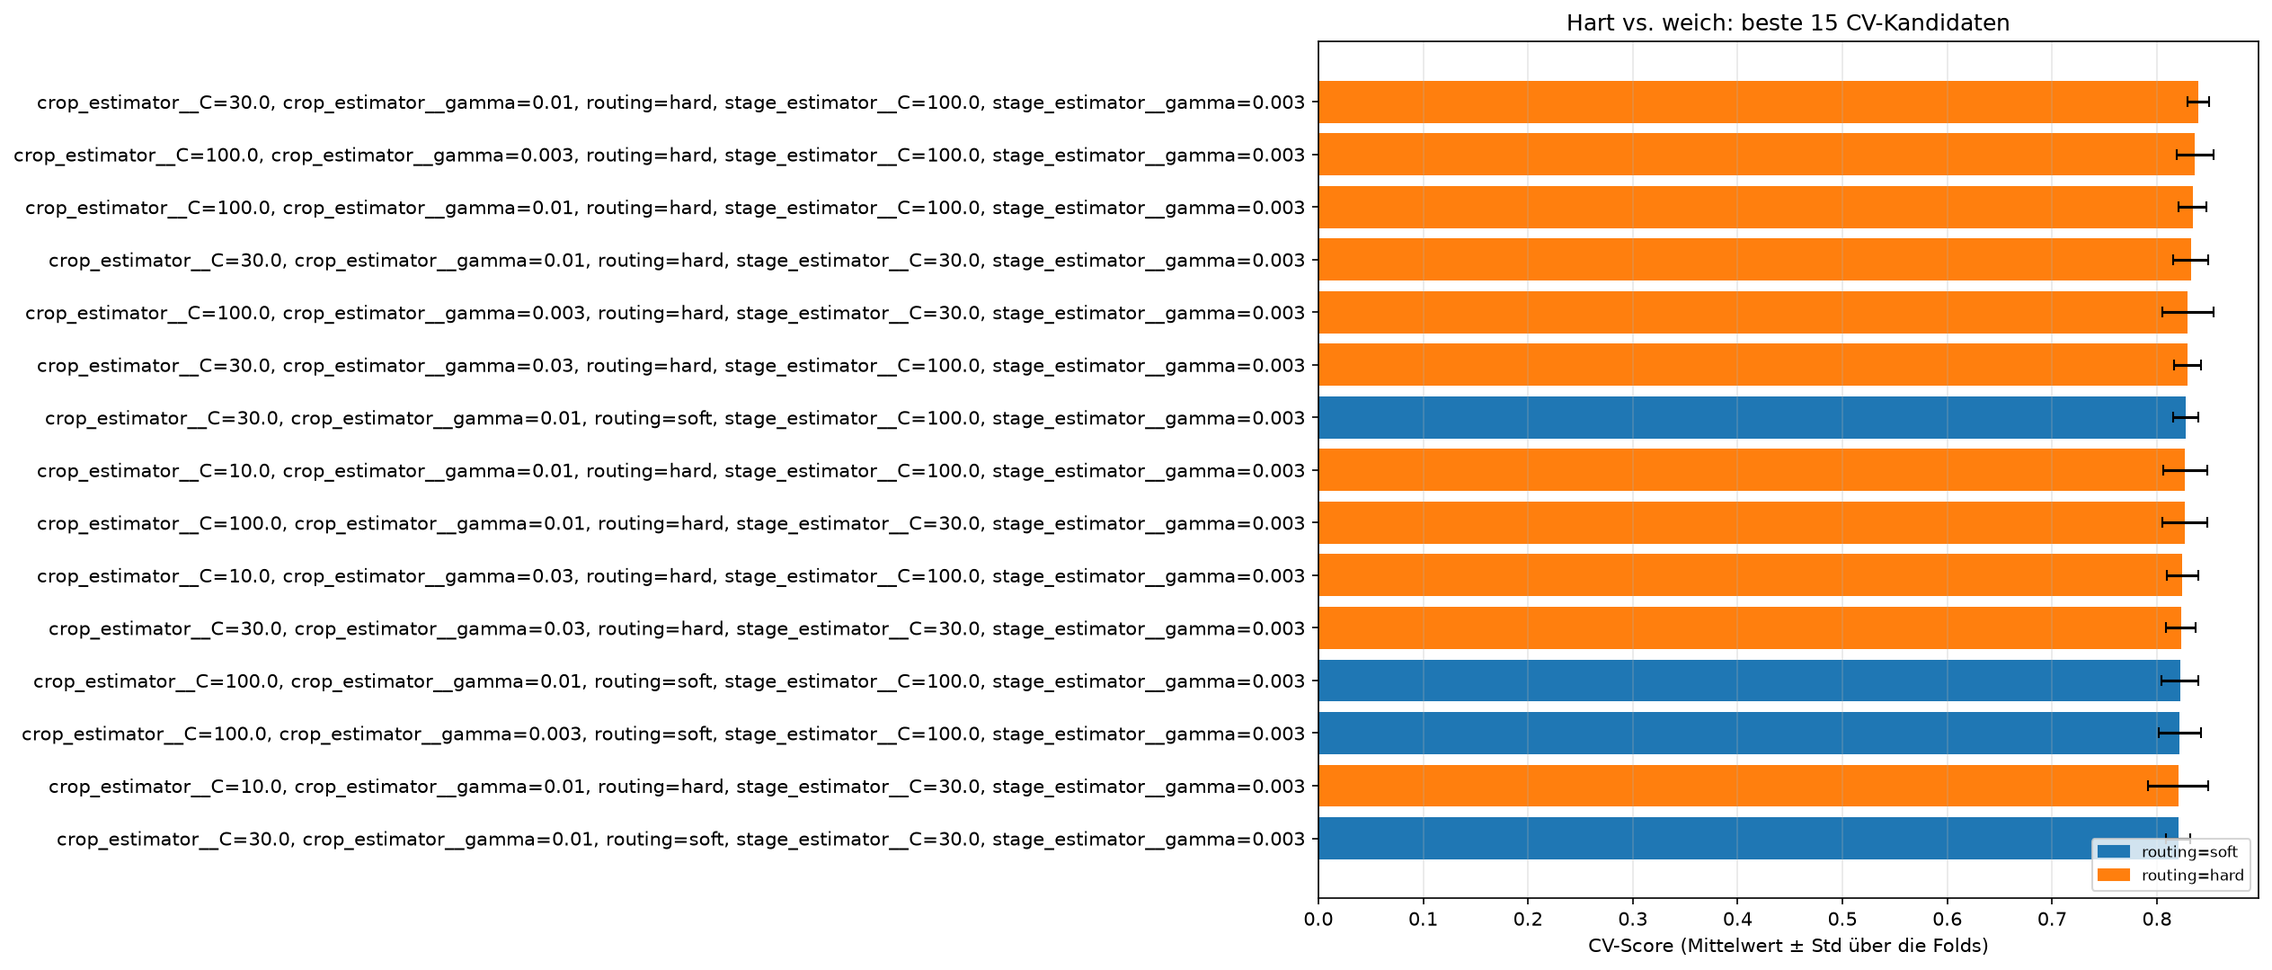
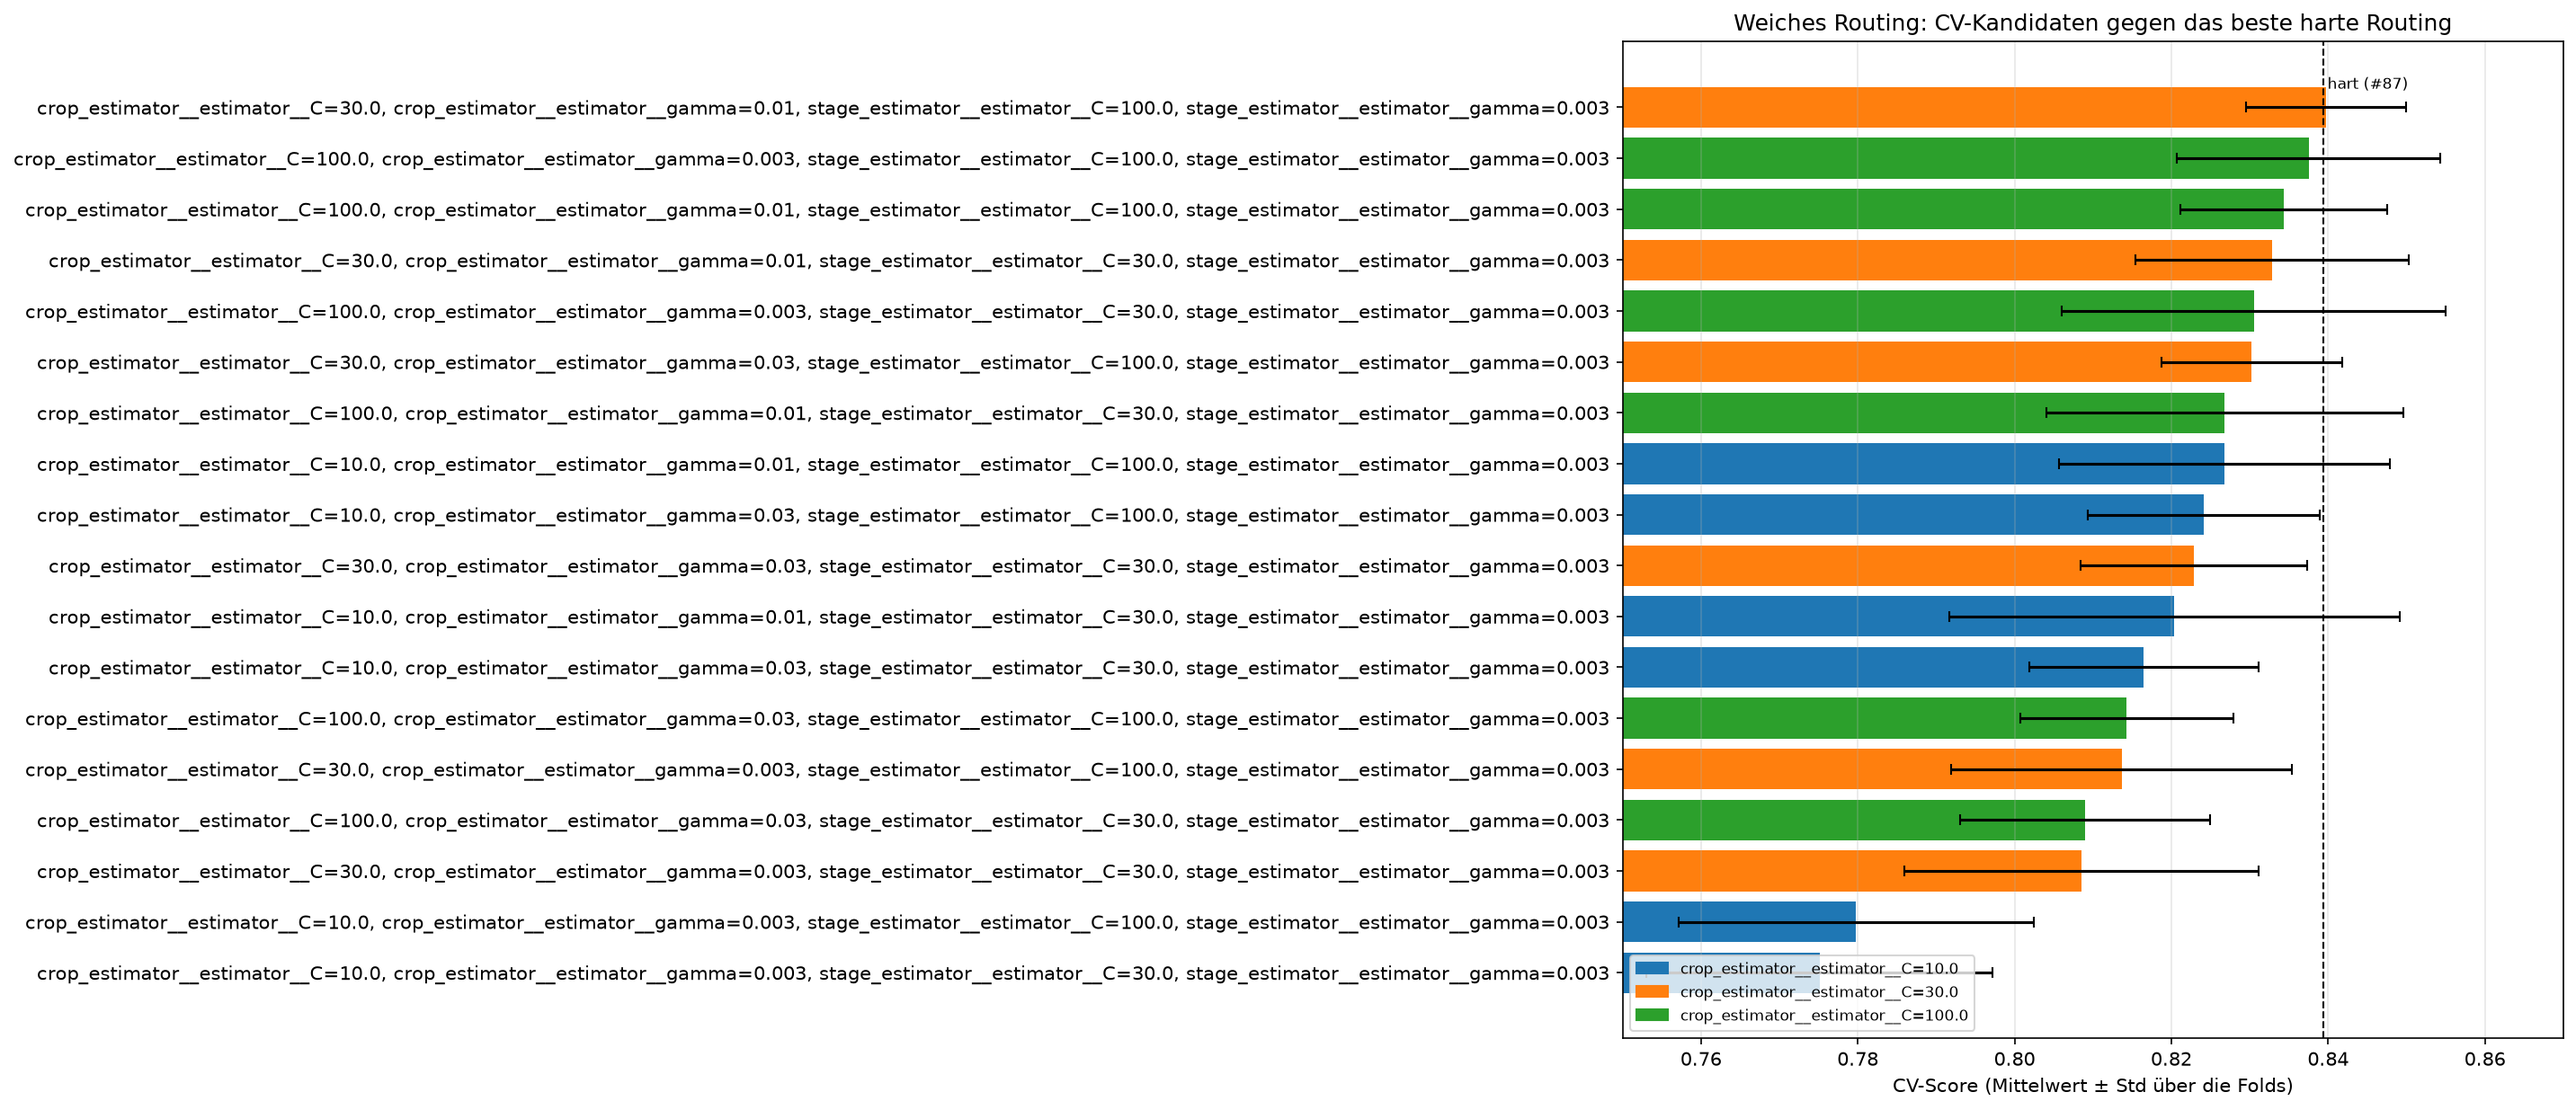
exp: calibrate soft routing and diagnose why it barely changes crops

diff --git a/src/awp2/models/hierarchical.py b/src/awp2/models/hierarchical.py
@@ -3,6 +3,7 @@
 import numpy as np
 import pandas as pd
 from sklearn.base import BaseEstimator, ClassifierMixin, clone
+from sklearn.calibration import CalibratedClassifierCV
 from sklearn.ensemble import ExtraTreesClassifier
 from sklearn.pipeline import Pipeline
 from sklearn.svm import SVC
@@ -82,6 +83,10 @@ class HierarchicalClassifier(ClassifierMixin, BaseEstimator):
         """
         if self.routing not in (HARD_ROUTING, SOFT_ROUTING):
             raise ValueError(f"Unknown routing {self.routing!r}.")
+        if self.routing == SOFT_ROUTING and not all(
+            hasattr(model, "predict_proba") for model in (self.crop_estimator, self.stage_estimator)
+        ):
+            raise ValueError("Soft routing needs predict_proba, e.g. CalibratedClassifierCV.")
         if list(y.columns) != list(TARGET_COLS):
             raise ValueError(f"Expected target columns {list(TARGET_COLS)}, got {list(y.columns)}.")
         crops = y[CROP_COL].to_numpy()
@@ -96,11 +101,6 @@ class HierarchicalClassifier(ClassifierMixin, BaseEstimator):
             self.stage_estimators_[crop] = clone(self.stage_estimator).fit(
                 X[is_crop], y.loc[is_crop, STAGE_COL], **_weight_params(crop_weights)
             )
-        if self.routing == SOFT_ROUTING and not all(
-            hasattr(model, "predict_proba")
-            for model in (self.crop_estimator_, *self.stage_estimators_.values())
-        ):
-            raise ValueError("Soft routing needs predict_proba, e.g. SVC(probability=True).")
         self.classes_ = np.unique(combined_label(y).to_numpy())
         return self
 
@@ -200,9 +200,10 @@ def make_hierarchical_svm(routing: Routing = HARD_ROUTING) -> HierarchicalClassi
     """Create the hierarchy with an RBF-SVM on both levels.
 
     Args:
-        routing: ``"soft"`` switches on probability estimates of the SVMs (Platt scaling with
-            an internal cross-validation, slower to fit); their ``predict`` stays unchanged, so
-            ``routing`` can then be tuned between ``"hard"`` and ``"soft"`` on the same model.
+        routing: ``"soft"`` wraps each SVM in a sigmoid ``CalibratedClassifierCV`` for
+            probabilities (internal cross-validation, slower to fit); tune its SVM as
+            ``crop_estimator__estimator__C`` etc. The calibrated models also *predict* by the
+            highest probability, so compare soft against a separately tuned hard hierarchy.
 
     Returns:
         Unfitted classifier with balanced class weights, so keep ``balance_samples=False``.
@@ -233,10 +234,11 @@ def make_hierarchical_extra_trees_svm() -> HierarchicalClassifier:
     return HierarchicalClassifier(_extra_trees(), SVC(class_weight="balanced"))
 
 
-def _svm(routing: Routing) -> SVC:
+def _svm(routing: Routing) -> SVC | CalibratedClassifierCV:
+    svm = SVC(class_weight="balanced")
     if routing == SOFT_ROUTING:
-        return SVC(class_weight="balanced", probability=True, random_state=SEED)
-    return SVC(class_weight="balanced")
+        return CalibratedClassifierCV(svm, method="sigmoid", ensemble=False)
+    return svm
 
 
 def _extra_trees() -> ExtraTreesClassifier:

diff --git a/src/awp2/config.py b/src/awp2/config.py
@@ -64,7 +64,6 @@ CROPS: tuple[str, ...] = get_args(Crop)
 STAGES: tuple[str, ...] = get_args(Stage)
 Subset = Literal["train", "val"]
 TRAIN_SUBSET, VAL_SUBSET = get_args(Subset)
-# hard: the predicted crop picks the stage model; soft: best pair by P(crop) * P(stage | crop)
 Routing = Literal["hard", "soft"]
 HARD_ROUTING, SOFT_ROUTING = get_args(Routing)
 LABEL_SEP = "|"  # "_" occurs inside crop and stage names, so it cannot separate them

diff --git a/docs/modelle/ansaetze/hierarchisch.md b/docs/modelle/ansaetze/hierarchisch.md
@@ -52,7 +52,7 @@ Stadien je Kultur im Trainingsteil:
 | Die Oracle-Kultur trennt Kultur- und Stadiumfehler sauber | Kein Wissensaustausch zwischen gleichen Stadien verschiedener Kulturen (z. B. Mais/Late und Soja/Late) |
 
 Gegenmaßnahmen: weiches Routing über Wahrscheinlichkeiten gegen die Fehlerfortpflanzung (#88,
-in der CV abgelehnt) sowie Vorverarbeitung und gezieltes Tuning schwacher Kulturen (#89).
+ohne messbaren Effekt) sowie Vorverarbeitung und gezieltes Tuning schwacher Kulturen (#89).
 
 ## Klassifikatoren
 
@@ -106,24 +106,37 @@ derselben Vorverarbeitung und demselben Raster **nur per CV** neu getunt
 
 Notebook: `notebooks/08_jd_hierarchical_soft.ipynb` (#88). Statt der harten Kulturentscheidung
 gewinnt das gültige Paar mit dem höchsten P(Kultur) · P(Stadium | Kultur)
-(`HierarchicalClassifier(routing="soft")`, SVMs mit Platt-Wahrscheinlichkeiten).
+(`HierarchicalClassifier(routing="soft")`); die SVMs bekommen Wahrscheinlichkeiten über
+`CalibratedClassifierCV` (Sigmoid, `ensemble=False`).
 
-- Suche `hierarchical_soft_search` (36 Kandidaten, MLflow `f0b6fbb8`): `routing` hart/weich ×
-  Kultur-`C`/`gamma` × Stadium-`C` auf demselben Modell. Bestes weiches Routing **CV 0.828**,
-  bestes hartes 0.839 (identisch mit `hierarchical_svm`) – **weich abgelehnt**, daher keine
-  Validierung. (Ein Smoke-Test hatte weich vorab einmal auf der Validierung gesehen: 0.823; er
-  ging nicht in die Entscheidung ein.)
-- Out-of-fold auf dem Trainingsteil ändert weiches Routing nur 2,3 % der Kulturentscheidungen
-  und verschiebt sie zur häufigsten Kultur: Recall Mais 0.916 → 0.935, Baumwolle 0.918 → 0.887.
-  Reis wird nicht bevorzugt – die Vermutung „wenige Stadien ⇒ hohe P(Stadium | Kultur)“
-  bestätigt sich nicht.
-- Plausible Ursache: Die Platt-Wahrscheinlichkeiten werden ohne Klassengewichte kalibriert und
-  bringen die Klassenhäufigkeiten zurück, die `class_weight="balanced"` aus der Entscheidung
-  herausnimmt. Das argmax optimiert dann eher die Accuracy als die Balanced Accuracy.
-- Idee, falls weiter verfolgt: Wahrscheinlichkeiten durch die Klassenhäufigkeit teilen
-  (Prior-Korrektur) – eine eigene Hypothese, nicht Teil von #88.
+- Suche `hierarchical_soft_search` (18 Kandidaten, MLflow `9e7edd15`): Kultur-`C`/`gamma` ×
+  Stadium-`C` um das Optimum aus #87. Bestes weiches Routing CV 0.840 gegenüber 0.839 für hart
+  (`hierarchical_svm_search`, gleiche Folds) – bei **identischen Hyperparametern**, drei von
+  fünf Folds gleich, Unterschied im Rauschen (Std 0.010).
+- Validierung `hierarchical_soft` (MLflow `4868f97d`): BAcc Crop 0.921, Stage 0.903,
+  **kombiniert 0.844** (hart: 0.844), Macro-F1 kombiniert 0.821, Samples-F1 0.907; keine
+  ungültigen Paare – ebenfalls ein Unentschieden.
+- **Kaum Änderungen** (out-of-fold auf dem Trainingsteil): Die Kalibrierung allein ändert keine
+  Kulturentscheidung und 5 Stadien; das weiche Routing danach 2 von 3 912 Kulturentscheidungen.
+  Der Recall je Kultur ist in allen Varianten gleich.
+- **Warum:** Auch bei *falschen* Kulturentscheidungen ist die Top-Kultur im Median 3,3-mal so
+  wahrscheinlich wie die zweite (90 % > 2-mal), kaum weniger als bei richtigen (3,4; 95 %). Die
+  kalibrierten Wahrscheinlichkeiten erben die Stimmenstruktur der OvO-SVM; ein Stadium-Modell
+  kann eine Kultur damit fast nie überstimmen. Weiches Routing hilft also **mit diesen
+  Wahrscheinlichkeiten** nicht – ob andere (z. B. Temperature Scaling oder eine multinomiale
+  logistische Regression auf den SVM-Scores) mehr Unsicherheit zeigen, wäre eine eigene
+  Hypothese.
+- **Die Wahrscheinlichkeitsquelle zählt:** Ein erster Lauf mit `SVC(probability=True)`
+  (libsvm-Platt, in scikit-learn 1.9 veraltet; MLflow `f0b6fbb8`, Notebook-Stand `7a515b2`)
+  änderte 2,3 % der Kulturentscheidungen, verschob sie zur häufigsten Kultur Mais (Recall Mais
+  0.916 → 0.935, Baumwolle 0.918 → 0.887) und verlor in der CV (0.828). Reis wurde in keinem
+  Lauf bevorzugt – die Vermutung „wenige Stadien ⇒ hohe P(Stadium | Kultur)“ trifft nicht zu.
+- Ein Smoke-Test hatte die libsvm-Variante vorab einmal auf der Validierung gesehen (0.823); er
+  ging nicht in die Entscheidung ein.
+- Hartes Routing bleibt Referenz: gleiche Güte, ein Fit statt sechs je SVM (die Kalibrierung
+  trainiert intern fünf weitere).
 
-![Hart vs. weich](../img/hierarchical_soft_tuning.png)
+![Weiches Routing: CV-Kandidaten](../img/hierarchical_soft_tuning.png)
 
 ### Extra Trees → RBF-SVM
 
@@ -151,7 +164,8 @@ gewinnt das gültige Paar mit dem höchsten P(Kultur) · P(Stadium | Kultur)
 **Vorläufig (#87):** Hierarchisch mit RBF-SVM auf beiden Stufen liegt in der CV knapp hinter
 der kombinierten SVM (0.839 vs. 0.845, im Rauschen) – nicht besser. Die Stadium-Modelle sind stark (Oracle-Kultur 0.939); der
 Ansatz verliert fast alles an der Kulturstufe, deren Fehler sich hart ins Stadium fortpflanzen.
-Weiches Routing über Wahrscheinlichkeiten (#88) senkt die Fehlerfortpflanzung nicht: In der CV
-verliert es (0.828 vs. 0.839), weil die kalibrierten Wahrscheinlichkeiten Richtung häufigster
-Kultur verschieben. Hartes Routing bleibt. Nächste Schritte: erweiterte SVM-Suche und
+Weiches Routing über Wahrscheinlichkeiten (#88) senkt die Fehlerfortpflanzung mit den
+kalibrierten SVM-Wahrscheinlichkeiten nicht: Die Kultur-SVM ist auch bei Fehlern so sicher, dass
+das Stadium sie kaum überstimmt (CV 0.840 vs. 0.839, Validierung 0.844 wie hart – im Rauschen).
+Hartes Routing bleibt als einfachere Variante die Referenz. Nächste Schritte: erweiterte SVM-Suche und
 Vorverarbeitung (#89), Ursachen der Kulturfehler in der Fehleranalyse (#32).

diff --git a/docs/modelle/experimente.md b/docs/modelle/experimente.md
@@ -20,6 +20,7 @@ Run-ID ([Experimente & MLflow](../entwicklung/tracking.md)).
 | 2026-10-12 | hierarchical_svm | Datata1 | Hierarchisch | 0.920 | 0.902 | 0.844 | 0.820 | 0.906 | aa082323 | RBF-SVM → RBF-SVM je Kultur; Kultur `C=30, gamma=0.01`, Stadium `C=100, gamma=0.003`; Tuning `hierarchical_svm_search` (2b851b88), CV 0.839; Oracle-Kultur 0.939; keine ungültigen Paare |
 | 2026-10-12 | hierarchical_et_svm | Datata1 | Hierarchisch | 0.874 | 0.890 | 0.801 | 0.793 | 0.893 | 8449d63e | Extra Trees → RBF-SVM; Tuning `hierarchical_et_svm_search` (c3f13a6e), CV 0.811; keine ungültigen Paare |
 | 2026-10-12 | hierarchical_et | Datata1 | Hierarchisch | 0.874 | 0.879 | 0.785 | 0.779 | 0.891 | 55dd4258 | Extra Trees → Extra Trees; Tuning `hierarchical_et_search` (95c88504), CV 0.797; keine ungültigen Paare |
+| 2026-10-12 | hierarchical_soft | Datata1 | Hierarchisch | 0.921 | 0.903 | 0.844 | 0.821 | 0.907 | 4868f97d | RBF-SVM → RBF-SVM mit kalibrierten Wahrscheinlichkeiten und weichem Routing; Tuning `hierarchical_soft_search` (9e7edd15), CV 0.840; gleiche Hyperparameter wie `hierarchical_svm`, ändert nur 2 von 3 912 Kulturentscheidungen (Training, out-of-fold) – Unentschieden; keine ungültigen Paare |
 
 ## CV-only Analysen
 
@@ -30,4 +31,5 @@ Diese Läufe verwenden ausschließlich die Trainingsfolds. Sie haben keine Valid
 | --- | --- | --- | --- | --- | --- | --- |
 | 2026-10-09 | combined_svm_wide_cv_search | duac1011 | Kombinierte Klasse | 0.853 | 01903fad | 25 Kombinationen von `C` und `gamma`; bestes CV-Ergebnis: `C=300.0`, `gamma=0.001`. Nach der Holdout-Bewertung von `combined_svm_expanded` nur zur Sensitivitätsanalyse ausgeführt; keine zweite Validierung. |
 | 2026-10-12 | combined_svm_cv_reference | Datata1 | Kombinierte Klasse | 0.845 | 014c54f2 | Kombinierte RBF-SVM mit der Vorverarbeitung der hierarchischen Läufe (standardisierte Spektren, zyklischer Monat), Raster wie `combined_svm_expanded_search`; bestes `C=100`, `gamma=0.003`. Fairer CV-Vergleich zu `hierarchical_svm` (0.839), keine Validierung. |
-| 2026-10-12 | hierarchical_soft_search | Datata1 | Hierarchisch | 0.839 | f0b6fbb8 | Hartes gegen weiches Routing (P(Kultur) · P(Stadium \| Kultur)) bei gleicher RBF-SVM mit Wahrscheinlichkeiten, 36 Kandidaten; bestes weiches Routing 0.828, bestes hartes 0.839 (= `hierarchical_svm`). Weich abgelehnt, keine Validierung. |
+| 2026-10-12 | hierarchical_soft_search (libsvm) | Datata1 | Hierarchisch | 0.828 (weich) | f0b6fbb8 | Hart gegen weich mit `SVC(probability=True)` (in scikit-learn 1.9 veraltet), 36 Kandidaten; bestes weiches Routing 0.828, bestes hartes 0.839 (in MLflow als `cv_bacc_combined_mean`). Ersetzt durch den kalibrierten Lauf (`9e7edd15`), keine Validierung. Zahlen zur Mais-Verschiebung: Notebook-Stand `7a515b2`. |
+| 2026-10-12 | hierarchical_soft_search | Datata1 | Hierarchisch | 0.840 | 9e7edd15 | Weiches Routing mit `CalibratedClassifierCV` (Sigmoid), 18 Kandidaten; gegen hart 0.839 (`hierarchical_svm_search`) bei identischen Hyperparametern – Unterschied im Rauschen (Std 0.010), einmal bewertet als `hierarchical_soft`. |

diff --git a/docs/modelle/ansaetze/index.md b/docs/modelle/ansaetze/index.md
@@ -18,7 +18,7 @@ Begriffe: [ML-Aufgabe](../../domaene/ml-aufgabe.md#problemformulierung).
 | [Baseline](baseline.md) | verglichen | Dummy, Random Forest | `rf_baseline` (BAcc kombiniert 0.743) | Referenz für alle weiteren Ansätze |
 | [Getrennte Modelle](getrennt.md) | offen | – | | |
 | [Kombinierte Klasse](kombiniert.md) | verglichen | Random Forest, RBF-SVM | `combined_svm_expanded` (BAcc kombiniert 0.866) | vorläufig führend; gegen weitere Ansätze vergleichen |
-| [Hierarchisch](hierarchisch.md) | in Arbeit | RBF-SVM → RBF-SVM, Extra Trees → RBF-SVM, Extra Trees → Extra Trees | `hierarchical_svm` (BAcc kombiniert 0.844) | CV 0.839 vs. 0.845 (`combined_svm_cv_reference`, gleiche Vorverarbeitung) – knapp dahinter; Engpass ist die Kulturstufe |
+| [Hierarchisch](hierarchisch.md) | in Arbeit | RBF-SVM → RBF-SVM, Extra Trees → RBF-SVM, Extra Trees → Extra Trees | `hierarchical_svm` (BAcc kombiniert 0.844) | CV 0.839 vs. 0.845 (`combined_svm_cv_reference`, gleiche Vorverarbeitung) – knapp dahinter; Engpass ist die Kulturstufe, weiches Routing ohne Effekt (#88) |
 | [Multi-Task](multi-task.md) | offen | – | | |
 
 Status: *offen* → *geplant* → *in Arbeit* → *verglichen* → *gewählt* / *verworfen*.
